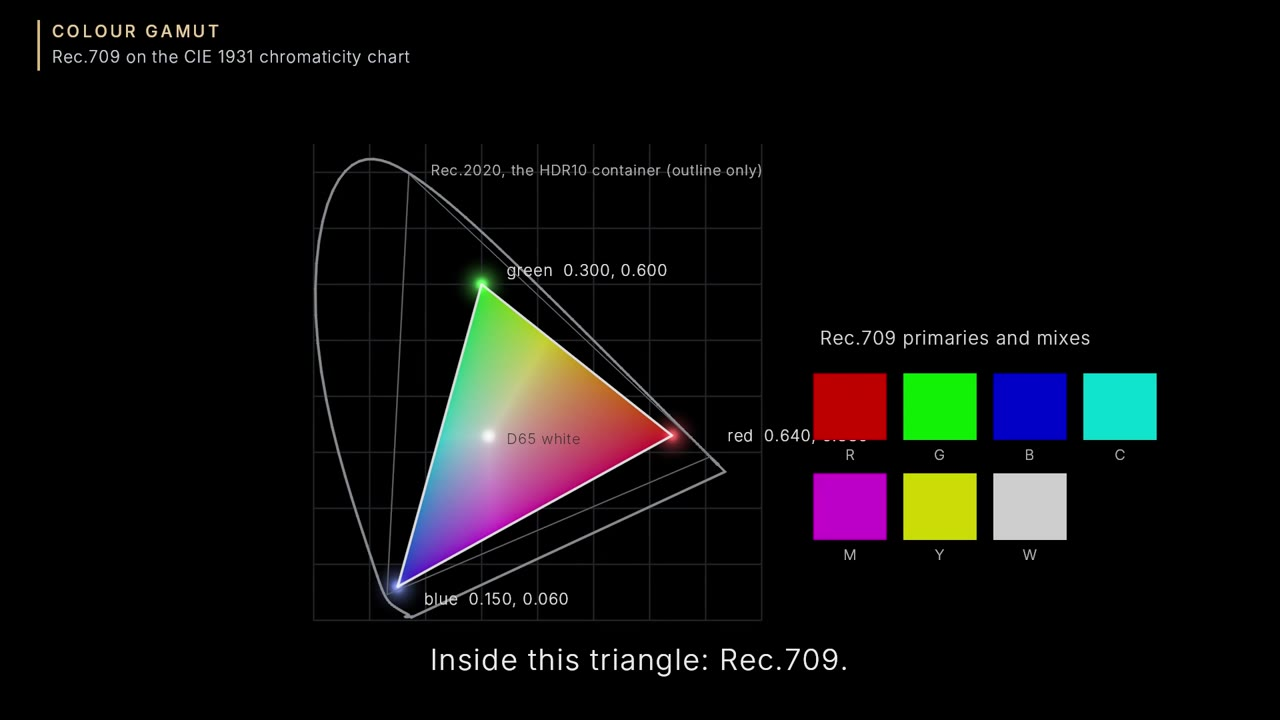
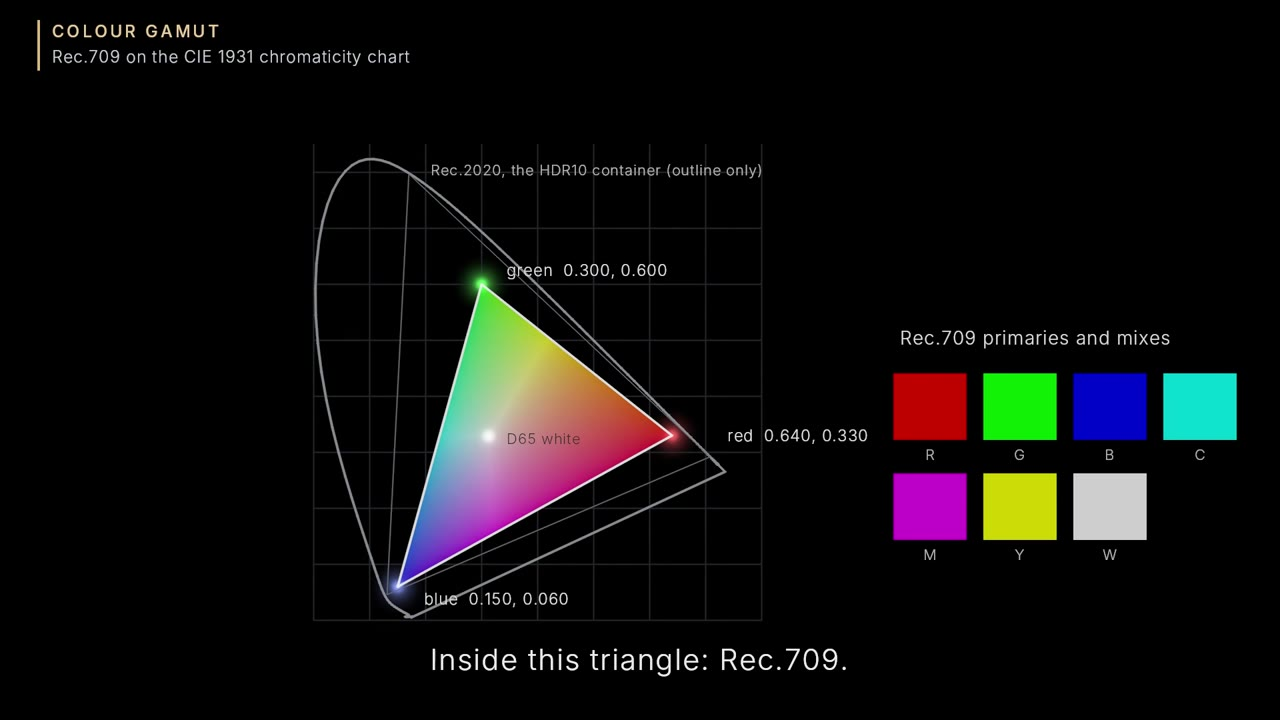
intro: move the colour swatches clear of the "red" label
Claude-Session: https://claude.ai/code/session_01R9FdkHMAMmNiGVdFgbEK16

Changed region(s): [[0.625, 0.5194, 0.9688, 0.7944], [0.625, 0.4583, 0.9062, 0.4889]]

diff --git a/intro/video.py b/intro/video.py
@@ -215,11 +215,11 @@ def draw_gamut(buf, t):
     cols = [("R", (1, 0, 0)), ("G", (0, 1, 0)), ("B", (0, 0, 1)), ("C", (0, 1, 1)), ("M", (1, 0, 1)), ("Y", (1, 1, 0)), ("W", (1, 1, 1))]
     k = sm(31.8, 32.8, t) * a
     for i, (nm, c) in enumerate(cols):
-        x = 1220 + (i % 4) * 135
+        x = 1340 + (i % 4) * 135
         y = 560 + (i // 4) * 150
         buf[y:y + 100, x:x + 110] = np.array(c, np.float32) * 60 * k
         put_text(buf, nm, 22, x + 55, y + 122, 45 * k)
-    put_text(buf, "Rec.709 primaries and mixes", 28, 1220, 505, 70 * k, anchor="l")
+    put_text(buf, "Rec.709 primaries and mixes", 28, 1340, 505, 70 * k, anchor="l")
 
 
 _LOCUS = _cie_xy()
